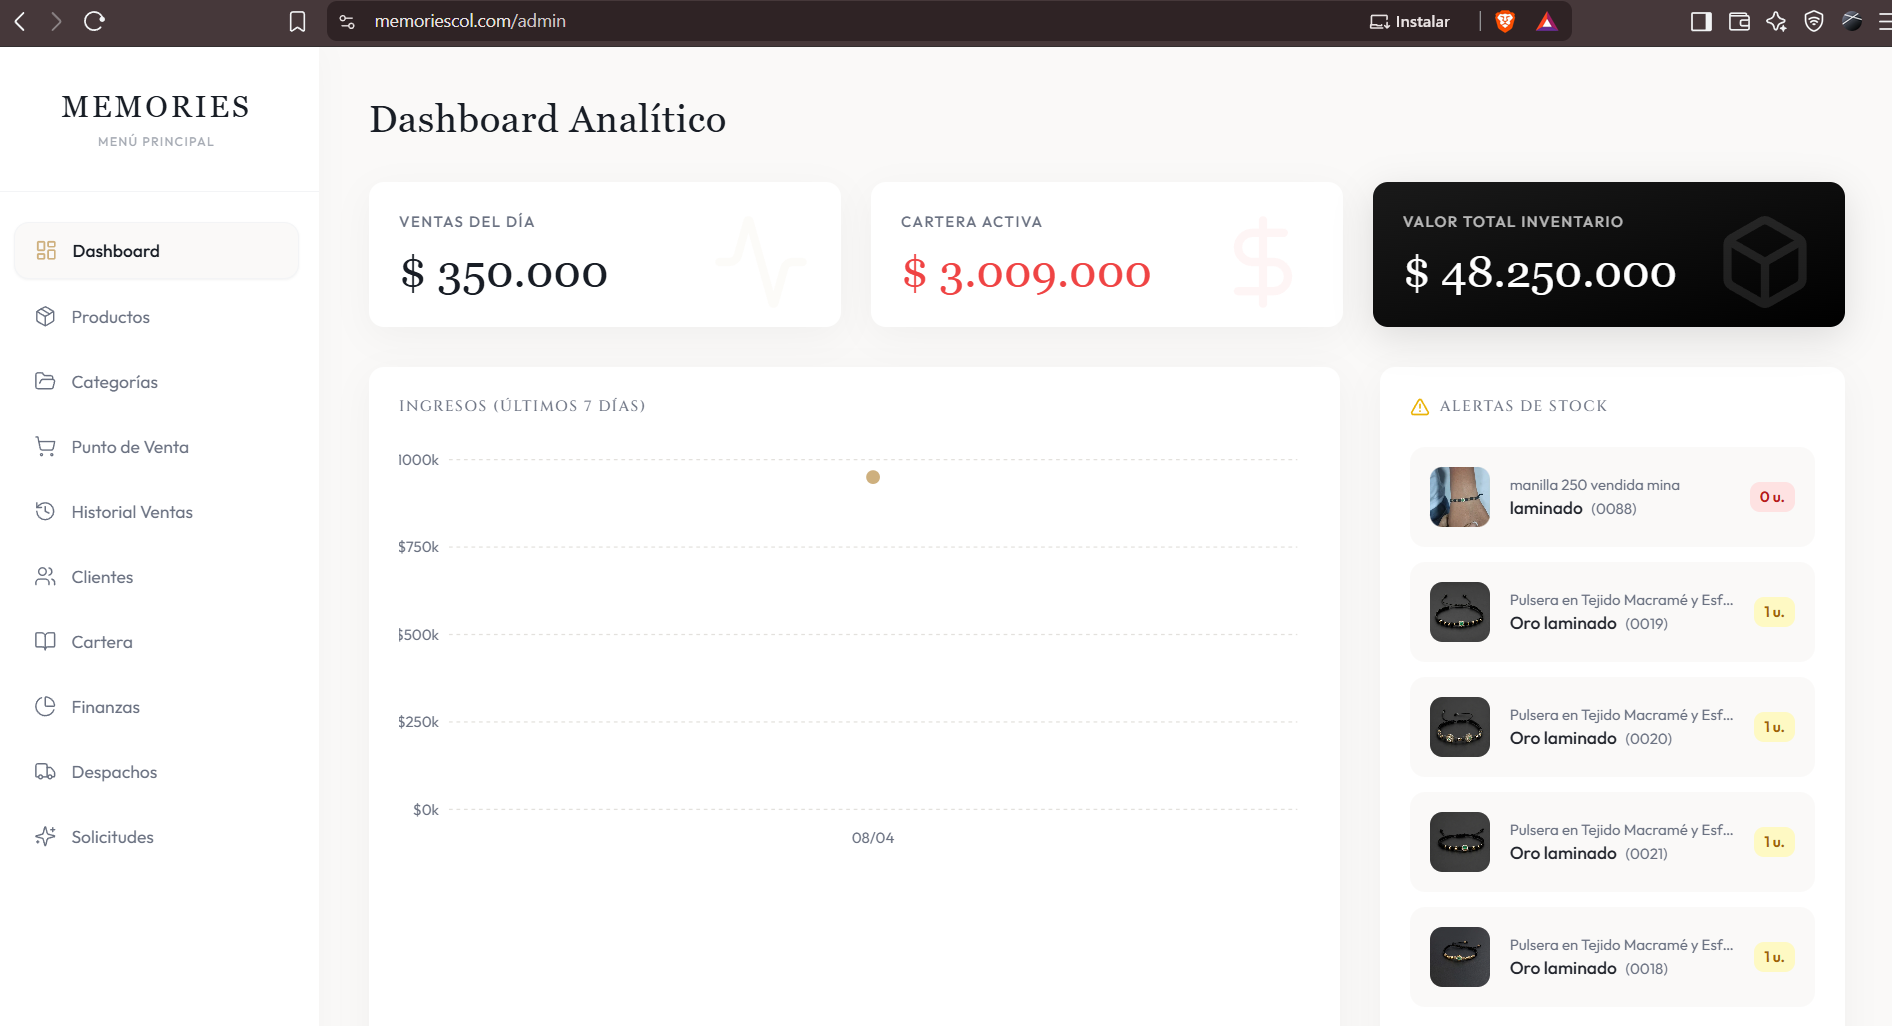
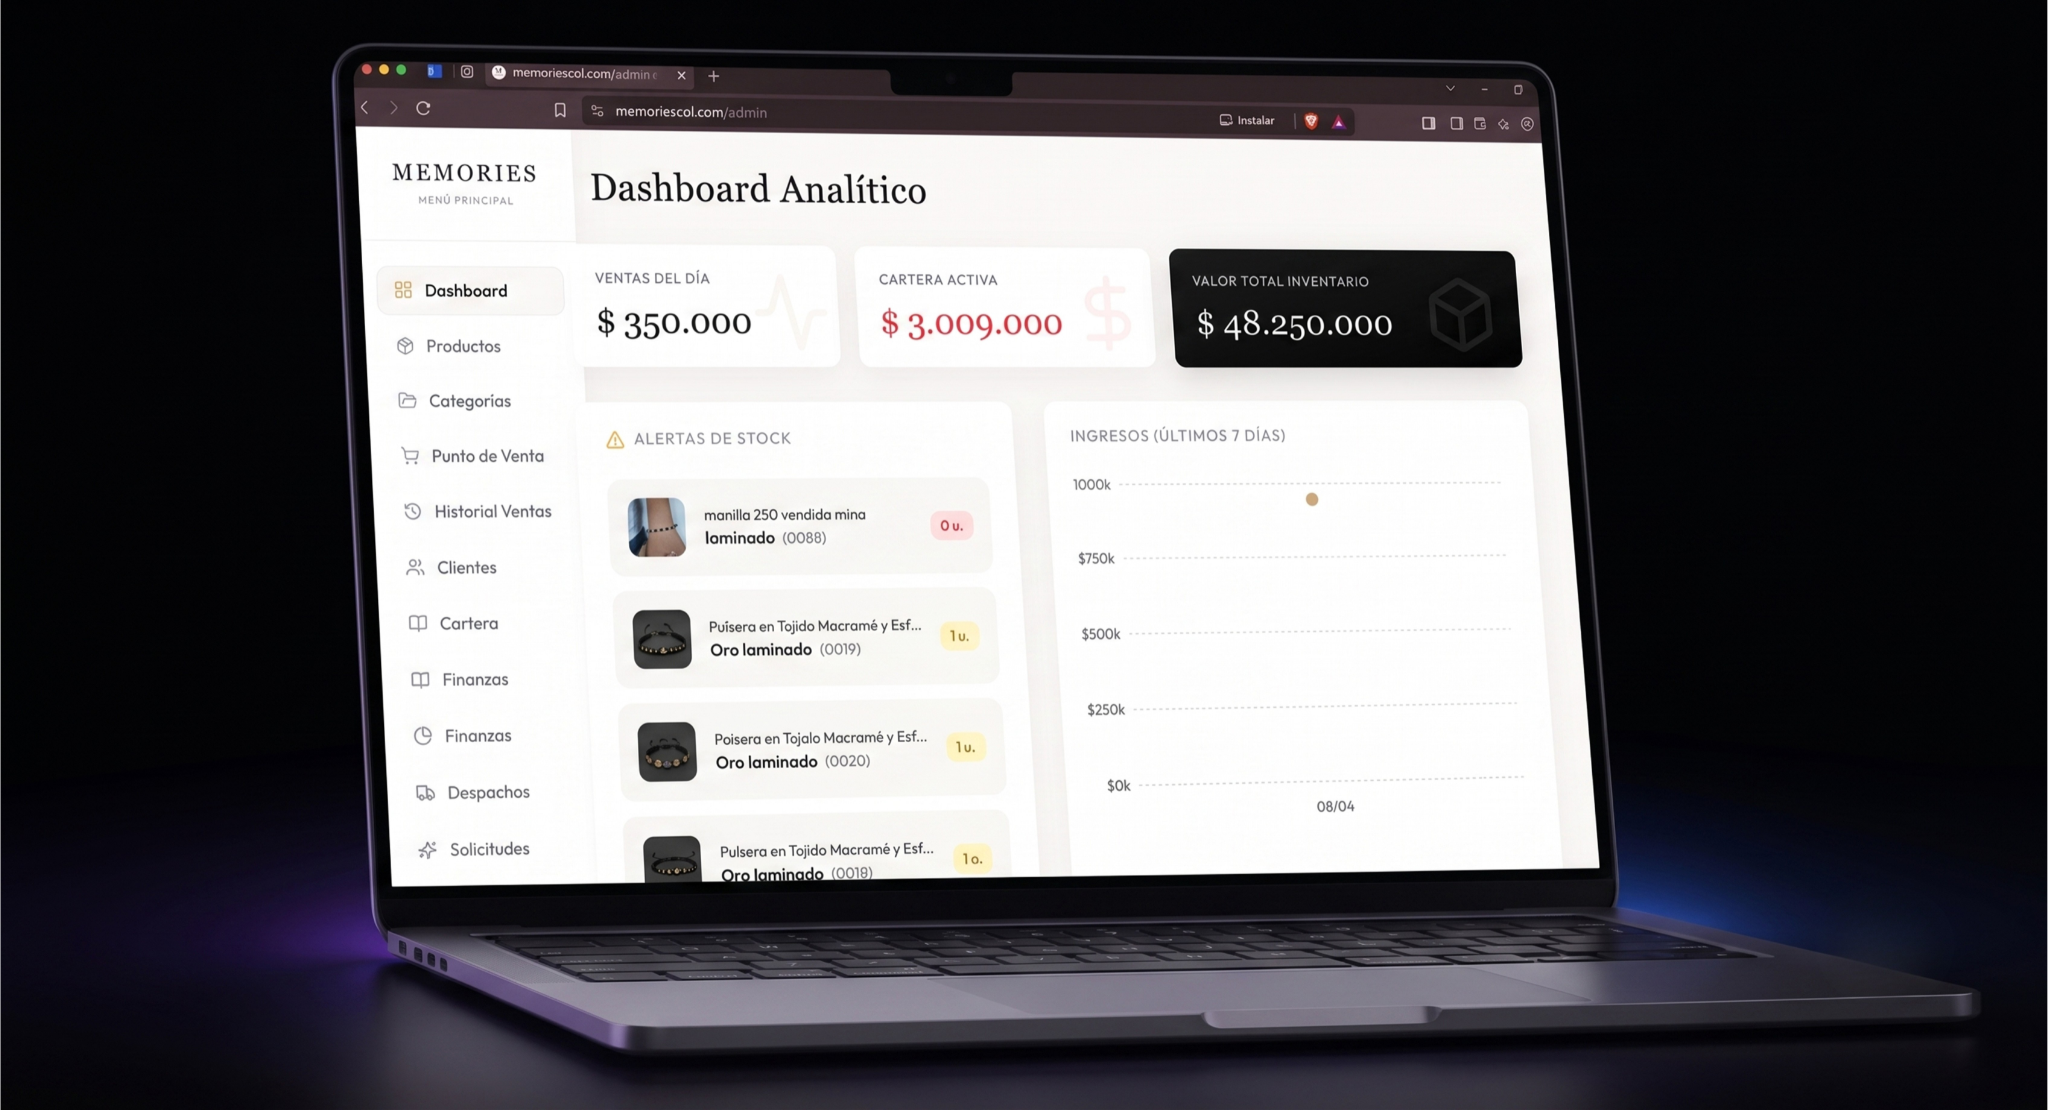
feat: implement Portfolio component and add REDfit and Memories case study routes

diff --git a/src/routes/casos.redfit.tsx b/src/routes/casos.redfit.tsx
@@ -1,0 +1,249 @@
+import { useState, useCallback, useEffect } from "react";
+import { createFileRoute, Link } from "@tanstack/react-router";
+import useEmblaCarousel from "embla-carousel-react";
+import { Nav } from "@/components/site/Nav";
+import { Footer } from "@/components/site/Footer";
+import { BookingModal } from "@/components/site/BookingModal";
+import { ArrowLeft, ArrowRight, Zap, Server, Shield, Database, ChevronLeft, ChevronRight, ExternalLink } from "lucide-react";
+import redfitImg from "@/assets/portfolio/refit.png";
+
+export const Route = createFileRoute("/casos/redfit")({
+  component: CaseStudy,
+  head: () => ({
+    meta: [
+      { title: "Caso de Estudio: REDfit | MurSat Solutions" },
+      {
+        name: "description",
+        content:
+          "Plataforma centralizada para la gestión de operaciones, membresías y finanzas de múltiples establecimientos físicos en tiempo real.",
+      },
+    ],
+  }),
+});
+
+function CaseStudy() {
+  const [emblaRef, emblaApi] = useEmblaCarousel({ loop: true });
+  const [selectedIndex, setSelectedIndex] = useState(0);
+
+  const scrollPrev = useCallback(() => {
+    if (emblaApi) emblaApi.scrollPrev();
+  }, [emblaApi]);
+
+  const scrollNext = useCallback(() => {
+    if (emblaApi) emblaApi.scrollNext();
+  }, [emblaApi]);
+
+  const onSelect = useCallback(() => {
+    if (!emblaApi) return;
+    setSelectedIndex(emblaApi.selectedScrollSnap());
+  }, [emblaApi]);
+
+  useEffect(() => {
+    if (!emblaApi) return;
+    emblaApi.on("select", onSelect);
+    onSelect();
+  }, [emblaApi, onSelect]);
+
+  const slides = [
+    { id: 1, img: redfitImg, label: "Dashboard administrativo global" },
+    { id: 2, img: redfitImg, label: "Control de membresías" },
+    { id: 3, img: redfitImg, label: "Vista Móvil Puntos de Venta" }
+  ];
+
+  return (
+    <main className="min-h-screen bg-zinc-950 text-foreground antialiased font-sans">
+      <Nav />
+      
+      {/* Hero Section */}
+      <section className="relative pt-40 pb-20 px-6">
+        <div className="max-w-6xl mx-auto">
+          {/* Back link */}
+          <Link
+            to="/"
+            className="inline-flex items-center gap-2 text-zinc-400 hover:text-cyan-400 transition-colors mb-10 text-sm font-medium"
+          >
+            <ArrowLeft className="size-4" />
+            Volver al inicio
+          </Link>
+
+          {/* Eyebrow */}
+          <div className="text-xs md:text-sm font-semibold tracking-[0.2em] text-cyan-500 uppercase mb-6">
+            SAAS MULTI-TENANT · GESTIÓN OPERATIVA
+          </div>
+
+          {/* Título y Subtítulo */}
+          <h1 className="text-4xl md:text-6xl lg:text-7xl font-bold tracking-tighter text-white mb-6 leading-tight max-w-4xl">
+            REDfit
+          </h1>
+          <p className="text-xl md:text-2xl text-zinc-400 font-light max-w-3xl leading-relaxed mb-16">
+            Plataforma centralizada para la gestión de operaciones, membresías y finanzas de múltiples establecimientos físicos en tiempo real.
+          </p>
+
+          {/* Hero Carousel */}
+          <div className="relative aspect-video md:aspect-[21/9] w-full rounded-2xl overflow-hidden bg-zinc-900 border border-zinc-800 shadow-[0_20px_50px_rgba(0,0,0,0.5)] group">
+            <div className="overflow-hidden h-full" ref={emblaRef}>
+              <div className="flex h-full">
+                {slides.map((slide) => (
+                  <div className="flex-[0_0_100%] min-w-0 h-full relative" key={slide.id}>
+                    <img
+                      src={slide.img}
+                      alt={`Mockup de ${slide.label}`}
+                      className="w-full h-full object-cover"
+                    />
+                    <div className="absolute inset-0 bg-gradient-to-t from-zinc-950/80 via-transparent to-transparent pointer-events-none" />
+                  </div>
+                ))}
+              </div>
+            </div>
+            
+            {/* Carousel Controls */}
+            <button
+              onClick={scrollPrev}
+              className="absolute left-4 top-1/2 -translate-y-1/2 size-10 rounded-full bg-zinc-950/50 border border-zinc-800 text-white flex items-center justify-center opacity-0 group-hover:opacity-100 transition-opacity duration-300 hover:bg-zinc-900 backdrop-blur-md cursor-pointer z-10"
+              aria-label="Anterior imagen"
+            >
+              <ChevronLeft className="size-6" />
+            </button>
+            <button
+              onClick={scrollNext}
+              className="absolute right-4 top-1/2 -translate-y-1/2 size-10 rounded-full bg-zinc-950/50 border border-zinc-800 text-white flex items-center justify-center opacity-0 group-hover:opacity-100 transition-opacity duration-300 hover:bg-zinc-900 backdrop-blur-md cursor-pointer z-10"
+              aria-label="Siguiente imagen"
+            >
+              <ChevronRight className="size-6" />
+            </button>
+
+            {/* Dots */}
+            <div className="absolute bottom-6 left-0 right-0 flex justify-center gap-3 z-10">
+              {slides.map((slide, index) => (
+                <button
+                  key={slide.id}
+                  onClick={() => emblaApi?.scrollTo(index)}
+                  className={`group relative flex flex-col items-center gap-2 cursor-pointer transition-all duration-300 ${
+                    selectedIndex === index ? "w-8 opacity-100" : "w-2 opacity-50 hover:opacity-80"
+                  }`}
+                  aria-label={`Ir a ${slide.label}`}
+                >
+                  <div className={`h-1.5 rounded-full bg-white transition-all duration-300 ${selectedIndex === index ? "w-8" : "w-2"}`} />
+                </button>
+              ))}
+            </div>
+          </div>
+        </div>
+      </section>
+
+      {/* Body: Dos Columnas */}
+      <section className="relative py-20 px-6 border-b border-zinc-800/50">
+        <div className="max-w-6xl mx-auto flex flex-col lg:flex-row gap-16 lg:gap-24 relative items-start">
+          
+          {/* Columna Izquierda (Sticky): Metadata, Tecnologías, Servicios */}
+          <div className="w-full lg:w-[30%] lg:sticky lg:top-32 flex flex-col gap-10">
+            
+            {/* Botones de Acción */}
+            <div className="flex flex-col gap-4">
+              <a 
+                href="https://www.redfit.app/"
+                target="_blank"
+                rel="noopener noreferrer"
+                className="w-full inline-flex items-center justify-center gap-2 px-6 py-4 rounded-xl bg-cyan-500 text-zinc-950 font-bold hover:bg-cyan-400 transition-colors shadow-[0_0_20px_rgba(6,182,212,0.3)] hover:shadow-[0_0_30px_rgba(6,182,212,0.5)] cursor-pointer"
+              >
+                Visitar Plataforma en Vivo
+                <ExternalLink className="size-5" />
+              </a>
+              <BookingModal triggerVariant="secondary">
+                <button className="w-full inline-flex items-center justify-center gap-2 px-6 py-4 rounded-xl bg-transparent border border-zinc-700 text-zinc-300 font-medium hover:bg-zinc-800/50 hover:text-white transition-colors cursor-pointer">
+                  Construir una arquitectura SaaS
+                </button>
+              </BookingModal>
+            </div>
+            
+            {/* Tecnologías */}
+            <div>
+              <h3 className="text-sm font-semibold text-white uppercase tracking-wider mb-5">
+                Stack Tecnológico
+              </h3>
+              <div className="flex flex-wrap gap-2">
+                {["Next.js", ".NET", "SQL Server", "Cloud"].map((tech) => (
+                  <span
+                    key={tech}
+                    className="inline-flex items-center px-3 py-1.5 rounded-full bg-zinc-900/50 border border-zinc-800 text-sm font-medium text-zinc-300"
+                  >
+                    {tech}
+                  </span>
+                ))}
+              </div>
+            </div>
+
+            {/* Servicios Aplicados */}
+            <div>
+              <h3 className="text-sm font-semibold text-white uppercase tracking-wider mb-5">
+                Servicios Aplicados
+              </h3>
+              <ul className="space-y-4">
+                <li className="flex items-start gap-3">
+                  <Server className="size-5 text-cyan-400 shrink-0" />
+                  <span className="text-zinc-400 text-sm">Arquitectura Multi-Tenant</span>
+                </li>
+                <li className="flex items-start gap-3">
+                  <Database className="size-5 text-cyan-400 shrink-0" />
+                  <span className="text-zinc-400 text-sm">Módulos financieros y de facturación</span>
+                </li>
+                <li className="flex items-start gap-3">
+                  <Shield className="size-5 text-cyan-400 shrink-0" />
+                  <span className="text-zinc-400 text-sm">Gestión concurrente de membresías</span>
+                </li>
+                <li className="flex items-start gap-3">
+                  <Zap className="size-5 text-cyan-400 shrink-0" />
+                  <span className="text-zinc-400 text-sm">Optimización de consultas SQL</span>
+                </li>
+              </ul>
+            </div>
+            
+          </div>
+
+          {/* Columna Derecha (Scroll): Narrativa */}
+          <div className="w-full lg:w-[70%] flex flex-col">
+            
+            {/* Contexto y Problema */}
+            <div className="mb-16">
+              <h3 className="text-3xl font-bold text-white tracking-tight mb-6">
+                Contexto y Problema
+              </h3>
+              <div className="space-y-6 text-lg text-zinc-300 font-light leading-relaxed">
+                <p>
+                  Escalar una red de establecimientos físicos genera un caos de datos si cada sede opera en silos. El desafío de REDfit era unificar la operación de múltiples sucursales bajo un mismo ecosistema, evitando discrepancias en el control de acceso de los usuarios, la facturación recurrente y la gestión del inventario.
+                </p>
+              </div>
+            </div>
+
+            {/* Arquitectura y Solución */}
+            <div className="mb-16">
+              <h3 className="text-3xl font-bold text-white tracking-tight mb-6">
+                Arquitectura y Solución
+              </h3>
+              <div className="space-y-6 text-lg text-zinc-300 font-light leading-relaxed">
+                <p>
+                  Implementamos una arquitectura <span className="text-white font-semibold">Multi-Tenant</span> (multiusuario) que aísla de forma segura los datos de cada sede manteniendo un núcleo de software único. Desarrollamos <span className="text-white font-semibold">Módulos financieros</span> concurrentes y realizamos una <span className="text-white font-semibold">Optimización SQL</span> profunda para garantizar que los reportes de rendimiento y membresías se generen en tiempo real sin saturar el servidor.
+                </p>
+              </div>
+            </div>
+
+            {/* El Resultado */}
+            <div className="mb-16">
+              <h3 className="text-3xl font-bold text-white tracking-tight mb-6">
+                El Resultado
+              </h3>
+              <div className="p-8 rounded-2xl bg-zinc-900/40 backdrop-blur-md border border-zinc-800 shadow-[0_10px_30px_rgba(0,0,0,0.5)]">
+                <p className="text-xl text-zinc-200 font-medium leading-relaxed">
+                  Un ecosistema SaaS centralizado y escalable. La administración central ahora tiene una visión unificada de todas las sedes, eliminando la pérdida de datos y automatizando la gestión de membresías a gran escala.
+                </p>
+              </div>
+            </div>
+
+          </div>
+        </div>
+      </section>
+
+      <Footer />
+    </main>
+  );
+}

diff --git a/src/routeTree.gen.ts b/src/routeTree.gen.ts
@@ -10,11 +10,17 @@
 
 import { Route as rootRouteImport } from './routes/__root'
 import { Route as IndexRouteImport } from './routes/index'
+import { Route as CasosRedfitRouteImport } from './routes/casos.redfit'
 import { Route as CasosMemoriesMagnaArteRouteImport } from './routes/casos.memories-magna-arte'
 
 const IndexRoute = IndexRouteImport.update({
   id: '/',
   path: '/',
+  getParentRoute: () => rootRouteImport,
+} as any)
+const CasosRedfitRoute = CasosRedfitRouteImport.update({
+  id: '/casos/redfit',
+  path: '/casos/redfit',
   getParentRoute: () => rootRouteImport,
 } as any)
 const CasosMemoriesMagnaArteRoute = CasosMemoriesMagnaArteRouteImport.update({
@@ -26,27 +32,31 @@ const CasosMemoriesMagnaArteRoute = CasosMemoriesMagnaArteRouteImport.update({
 export interface FileRoutesByFullPath {
   '/': typeof IndexRoute
   '/casos/memories-magna-arte': typeof CasosMemoriesMagnaArteRoute
+  '/casos/redfit': typeof CasosRedfitRoute
 }
 export interface FileRoutesByTo {
   '/': typeof IndexRoute
   '/casos/memories-magna-arte': typeof CasosMemoriesMagnaArteRoute
+  '/casos/redfit': typeof CasosRedfitRoute
 }
 export interface FileRoutesById {
   __root__: typeof rootRouteImport
   '/': typeof IndexRoute
   '/casos/memories-magna-arte': typeof CasosMemoriesMagnaArteRoute
+  '/casos/redfit': typeof CasosRedfitRoute
 }
 export interface FileRouteTypes {
   fileRoutesByFullPath: FileRoutesByFullPath
-  fullPaths: '/' | '/casos/memories-magna-arte'
+  fullPaths: '/' | '/casos/memories-magna-arte' | '/casos/redfit'
   fileRoutesByTo: FileRoutesByTo
-  to: '/' | '/casos/memories-magna-arte'
-  id: '__root__' | '/' | '/casos/memories-magna-arte'
+  to: '/' | '/casos/memories-magna-arte' | '/casos/redfit'
+  id: '__root__' | '/' | '/casos/memories-magna-arte' | '/casos/redfit'
   fileRoutesById: FileRoutesById
 }
 export interface RootRouteChildren {
   IndexRoute: typeof IndexRoute
   CasosMemoriesMagnaArteRoute: typeof CasosMemoriesMagnaArteRoute
+  CasosRedfitRoute: typeof CasosRedfitRoute
 }
 
 declare module '@tanstack/react-router' {
@@ -56,6 +66,13 @@ declare module '@tanstack/react-router' {
       path: '/'
       fullPath: '/'
       preLoaderRoute: typeof IndexRouteImport
+      parentRoute: typeof rootRouteImport
+    }
+    '/casos/redfit': {
+      id: '/casos/redfit'
+      path: '/casos/redfit'
+      fullPath: '/casos/redfit'
+      preLoaderRoute: typeof CasosRedfitRouteImport
       parentRoute: typeof rootRouteImport
     }
     '/casos/memories-magna-arte': {
@@ -71,6 +88,7 @@ declare module '@tanstack/react-router' {
 const rootRouteChildren: RootRouteChildren = {
   IndexRoute: IndexRoute,
   CasosMemoriesMagnaArteRoute: CasosMemoriesMagnaArteRoute,
+  CasosRedfitRoute: CasosRedfitRoute,
 }
 export const routeTree = rootRouteImport
   ._addFileChildren(rootRouteChildren)

diff --git a/src/components/site/Portfolio.tsx b/src/components/site/Portfolio.tsx
@@ -18,7 +18,8 @@ const caseStudies = [
     ],
     result: "Una plataforma centralizada y escalable, preparada para operar múltiples sedes comerciales sin discrepancias de datos.",
     image: redfitImg,
-    link: "https://www.redfit.app/",
+    link: "/casos/redfit",
+    isInternal: true,
   },
   {
     title: "Caso 02: Annac (Turismo a la medida)",
